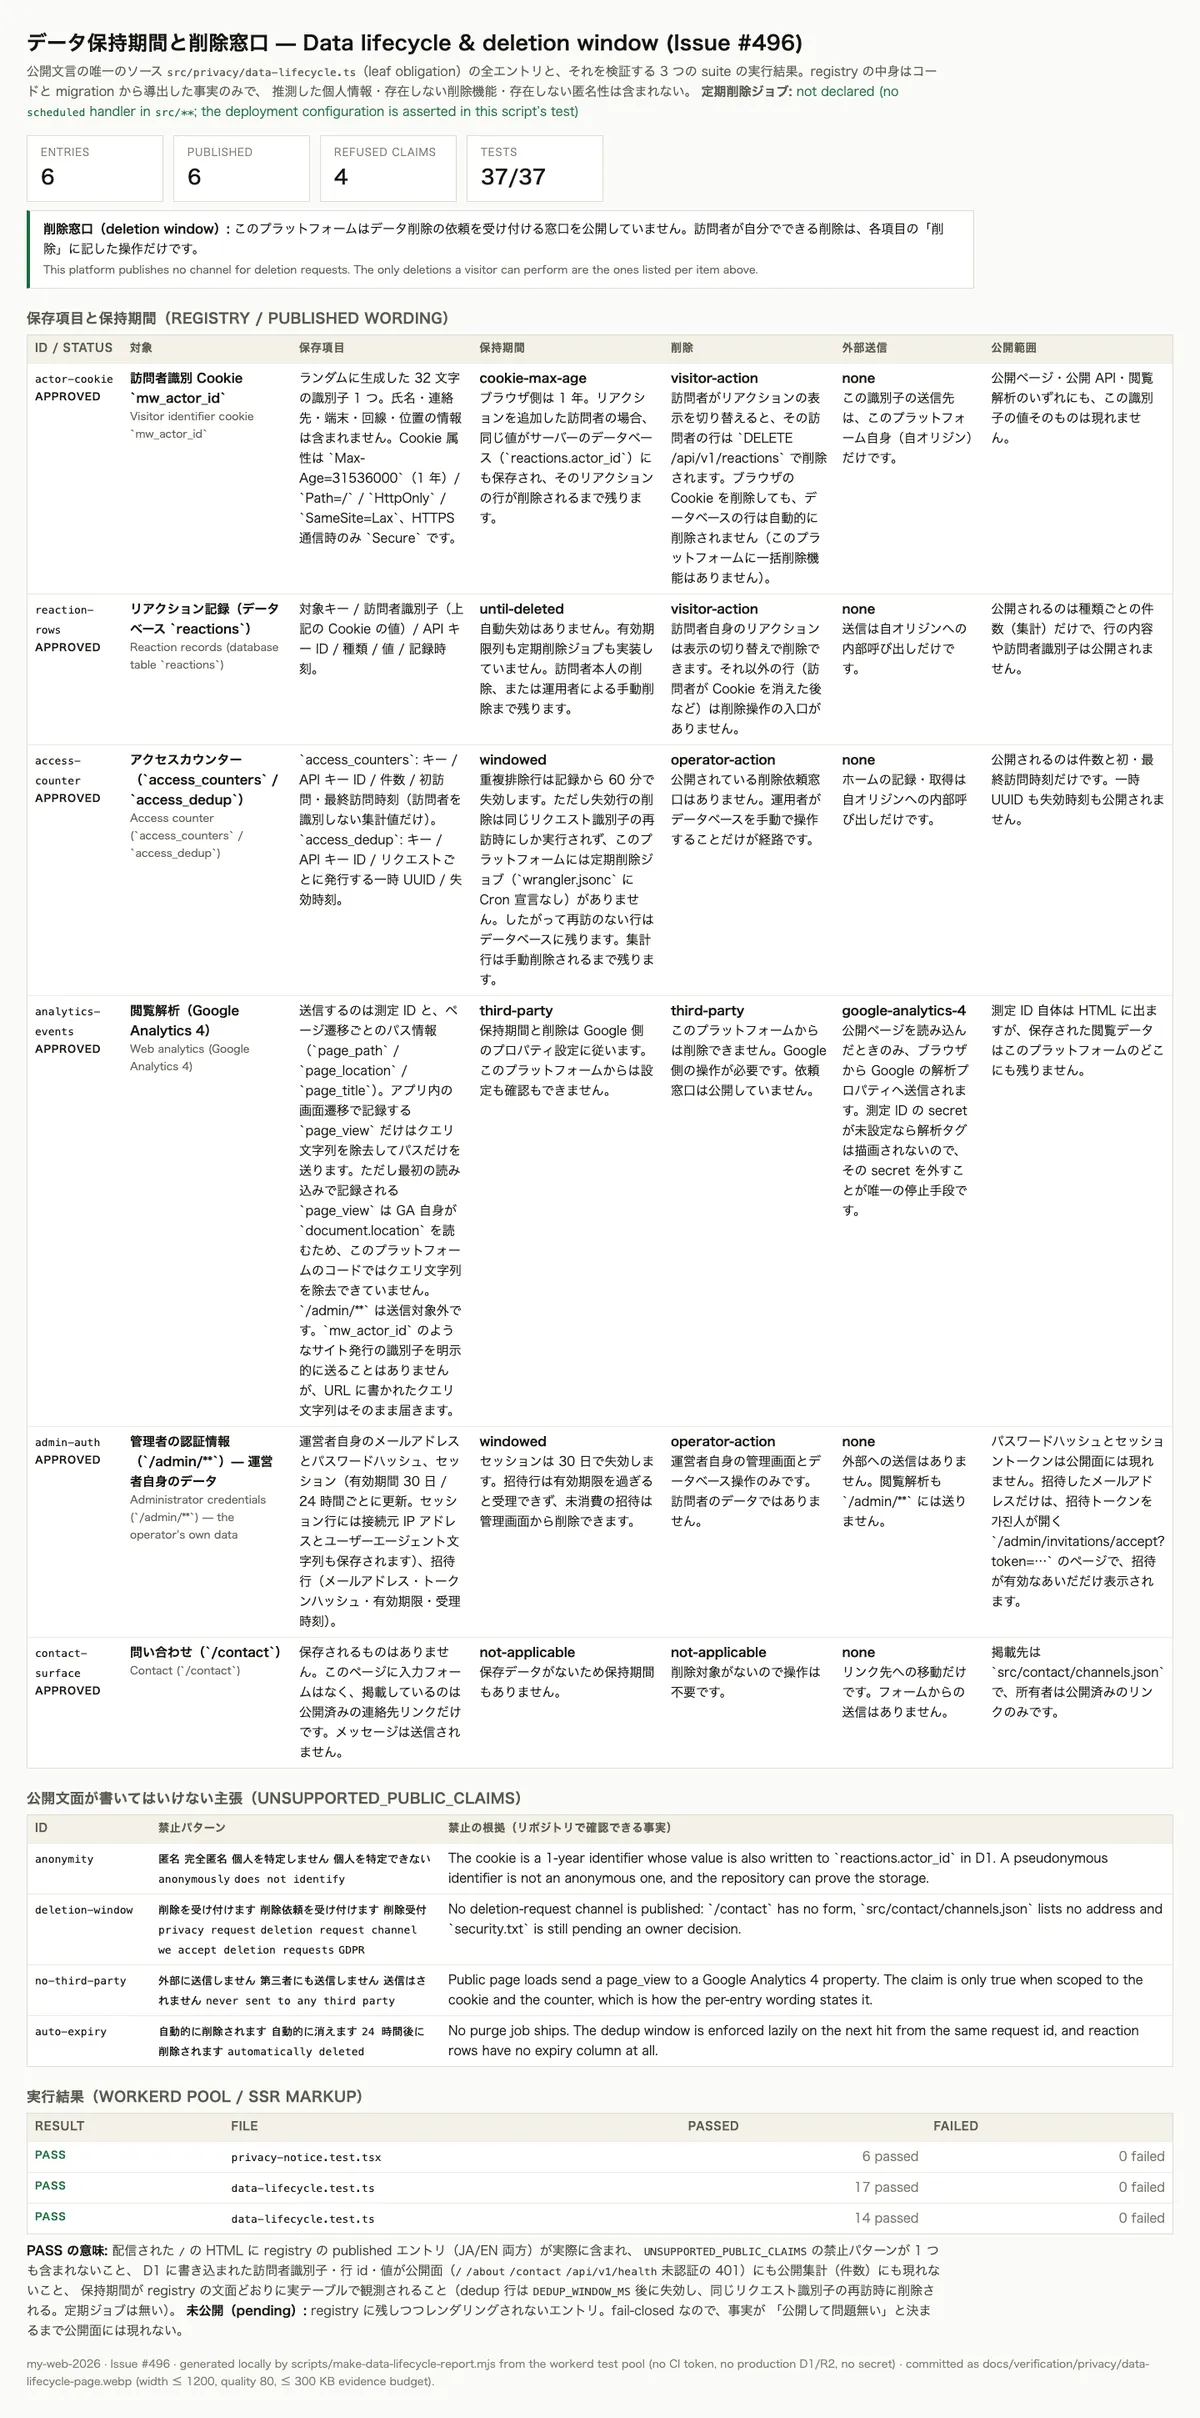
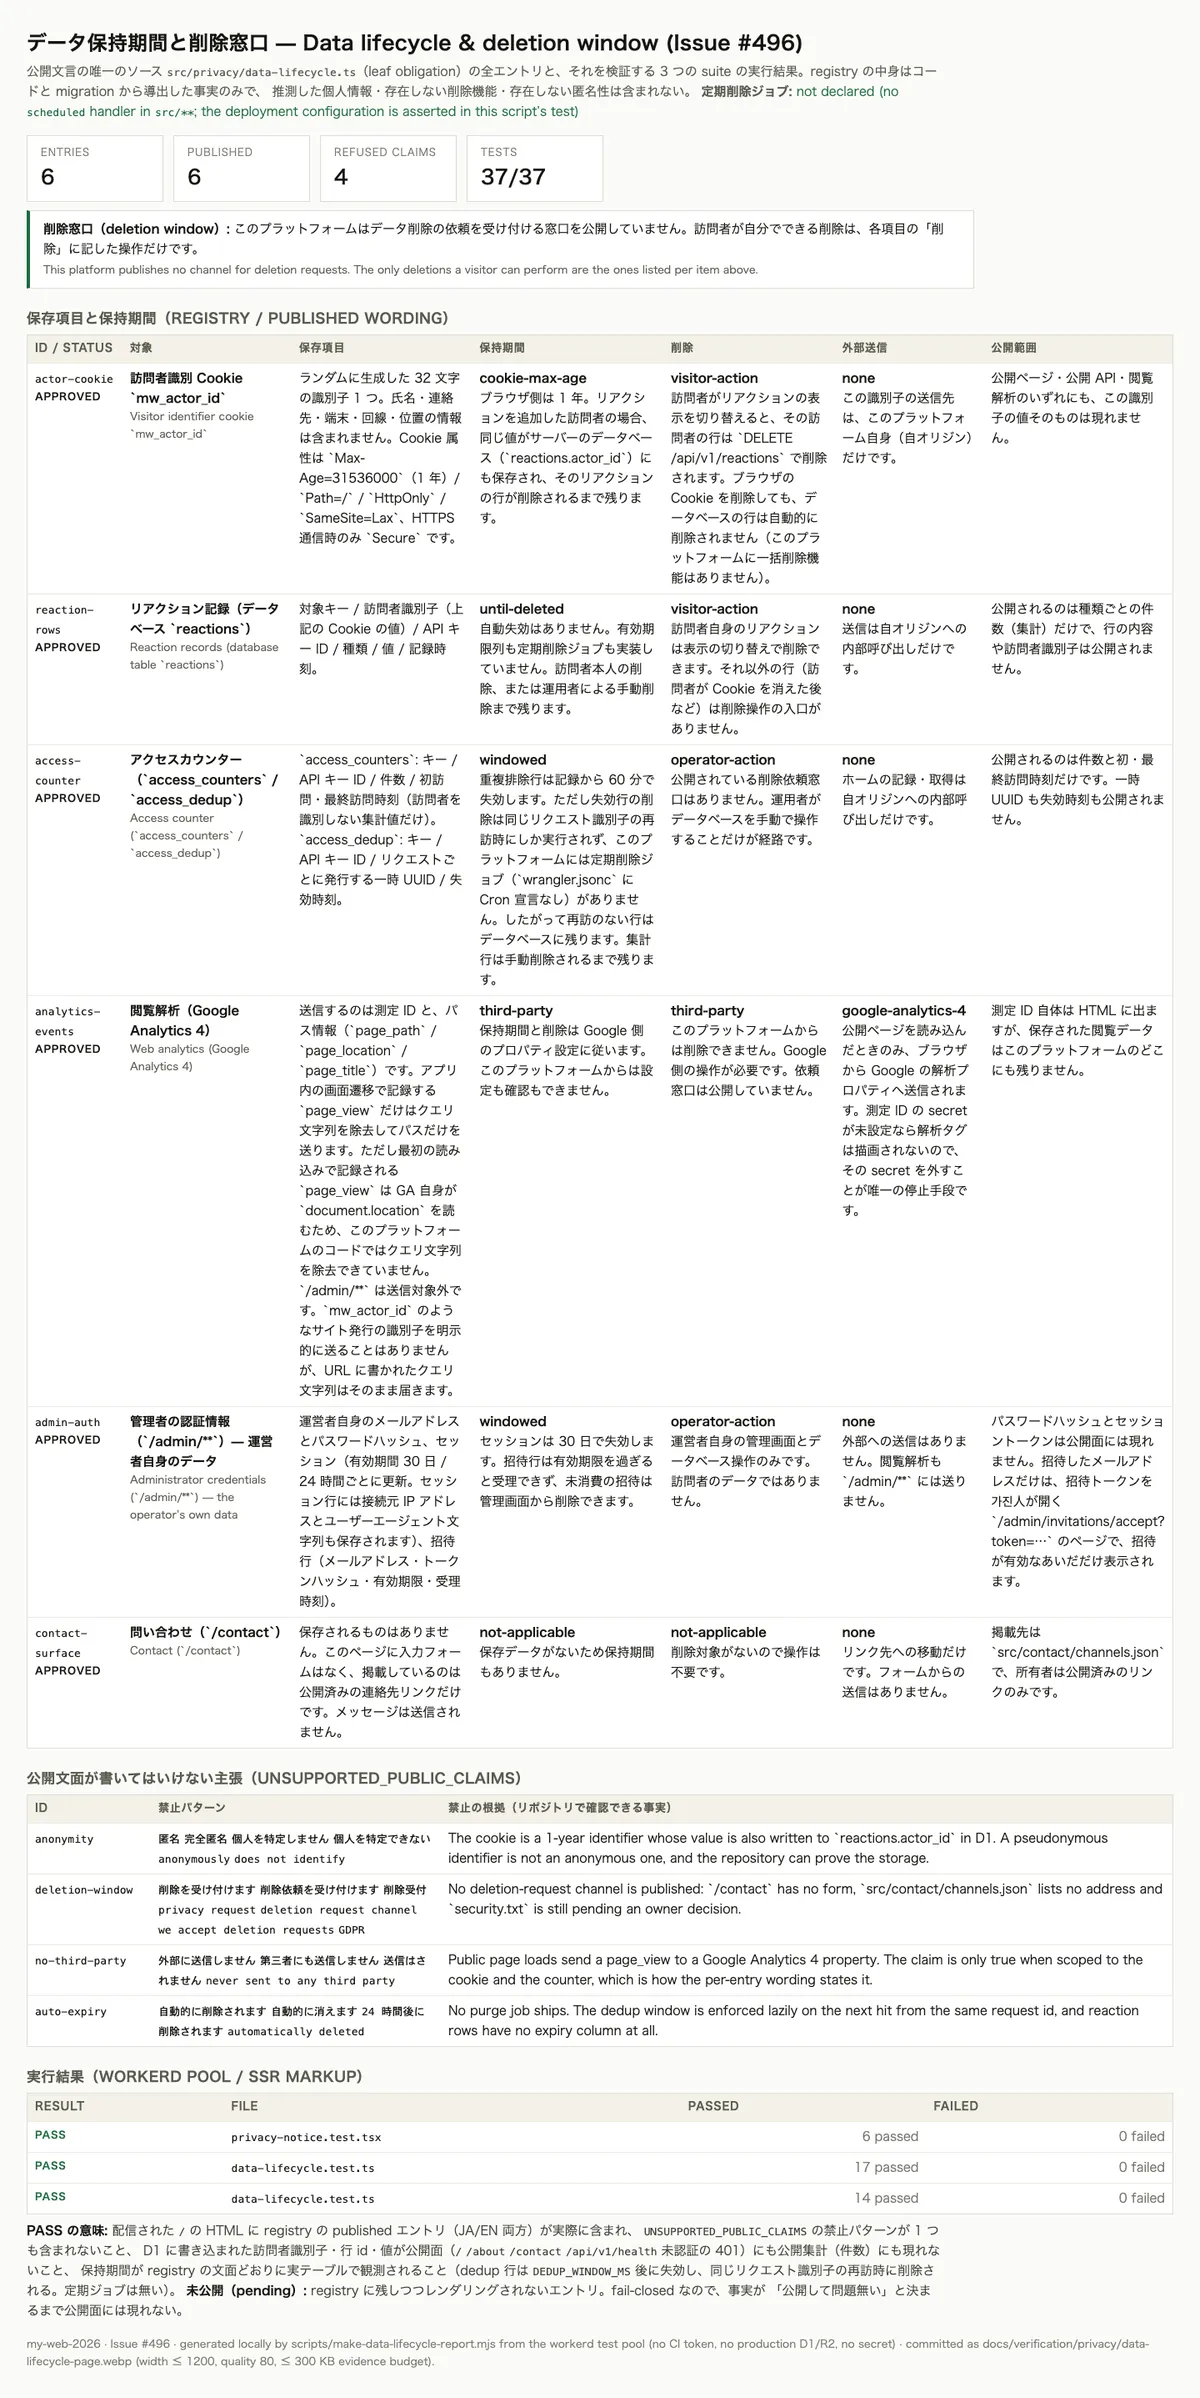
fix(privacy): name the analytics payload without implying route-change-only path data (#496)
The enumeration of what leaves the deployment read as if the path
information were sent per route change only, while the first
page_view carries the document URL's path as well. The sentence now
enumerates the payload first and the two page_view paths after it, so
the first page_view is not read as an exception to a partial list.

diff --git a/src/privacy/data-lifecycle.ts b/src/privacy/data-lifecycle.ts
@@ -319,8 +319,8 @@ export const DATA_LIFECYCLE_ENTRIES = [
 			// happen. See `docs/security/log-redaction.md`
 			// ("Known limits") and `src/editorial/analytics/
 			// GoogleAnalytics.tsx`.
-			ja: '送信するのは測定 ID と、ページ遷移ごとのパス情報（`page_path` / `page_location` / `page_title`）。アプリ内の画面遷移で記録する `page_view` だけはクエリ文字列を除去してパスだけを送ります。ただし最初の読み込みで記録される `page_view` は GA 自身が `document.location` を読むため、このプラットフォームのコードではクエリ文字列を除去できていません。`/admin/**` は送信対象外です。`mw_actor_id` のようなサイト発行の識別子を明示的に送ることはありませんが、URL に書かれたクエリ文字列はそのまま届きます。',
-			en: 'What leaves the deployment: the measurement id and, per route change, the path (`page_path` / `page_location` / `page_title`). The `page_view` recorded on an in-app route change has its query string stripped, so only the path is sent. The `page_view` recorded on the first page load is different: GA reads `document.location` itself, so this platform’s code cannot strip the query string there. `/admin/**` is excluded, and no site-issued identifier such as `mw_actor_id` is sent explicitly — but a query string written into the URL reaches GA unchanged.',
+			ja: '送信するのは測定 ID と、パス情報（`page_path` / `page_location` / `page_title`）です。アプリ内の画面遷移で記録する `page_view` だけはクエリ文字列を除去してパスだけを送ります。ただし最初の読み込みで記録される `page_view` は GA 自身が `document.location` を読むため、このプラットフォームのコードではクエリ文字列を除去できていません。`/admin/**` は送信対象外です。`mw_actor_id` のようなサイト発行の識別子を明示的に送ることはありませんが、URL に書かれたクエリ文字列はそのまま届きます。',
+			en: 'What leaves the deployment: the measurement id and the path information (`page_path` / `page_location` / `page_title`). The `page_view` recorded on an in-app route change has its query string stripped, so only the path is sent. The `page_view` recorded on the first page load is different: GA reads `document.location` itself, so this platform’s code cannot strip the query string there. `/admin/**` is excluded, and no site-issued identifier such as `mw_actor_id` is sent explicitly — but a query string written into the URL reaches GA unchanged.',
 		},
 		retention: {
 			kind: 'third-party',
